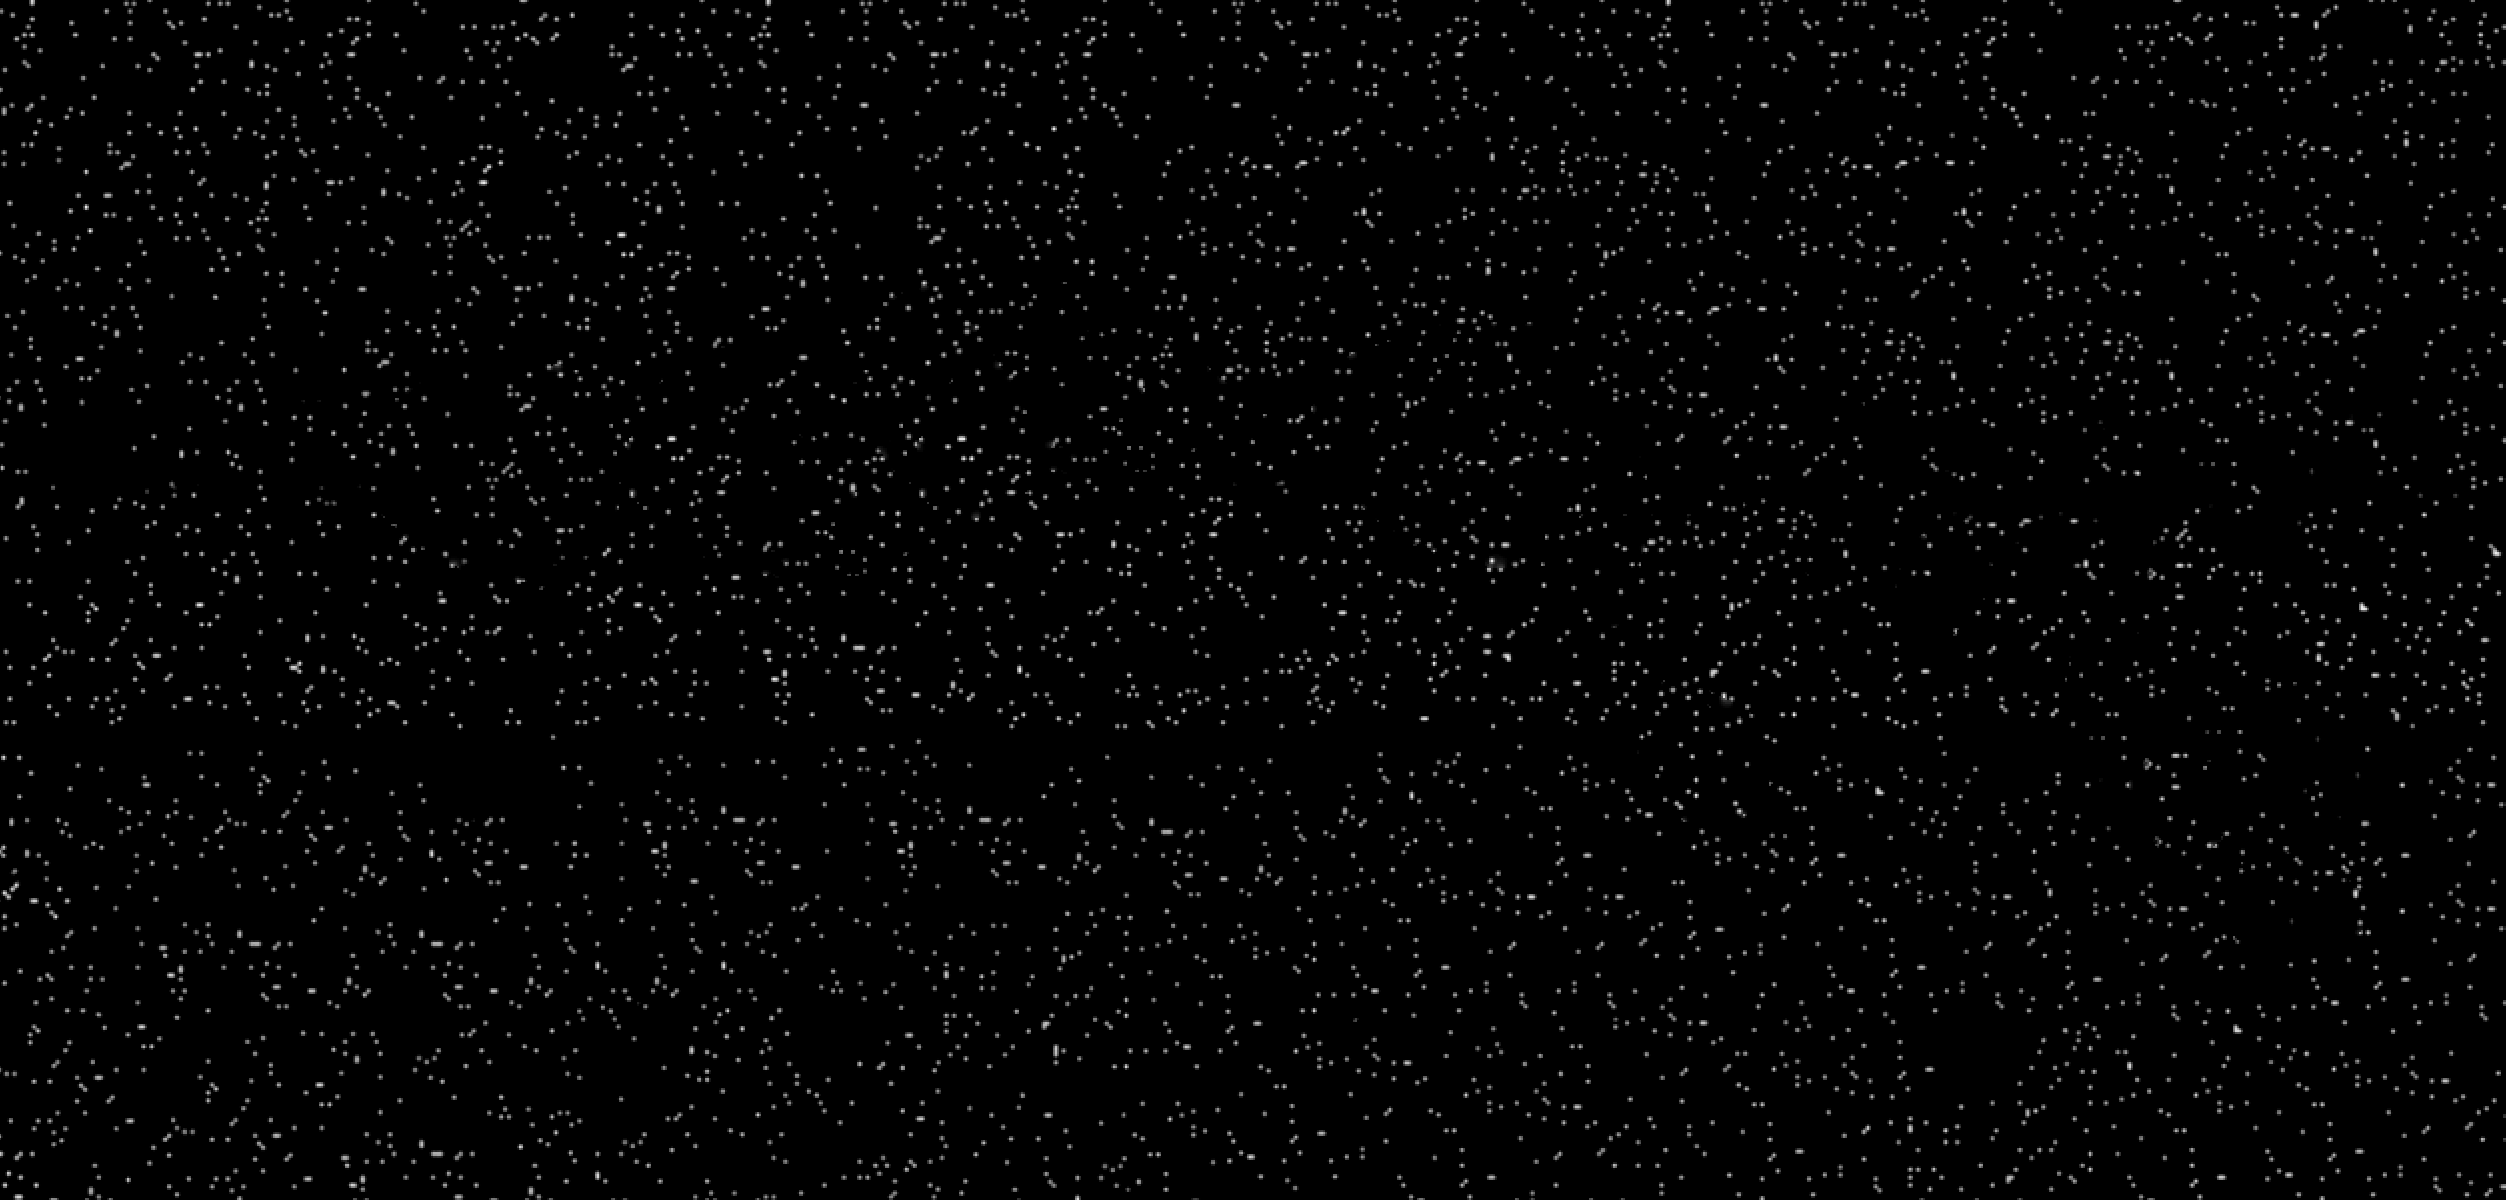
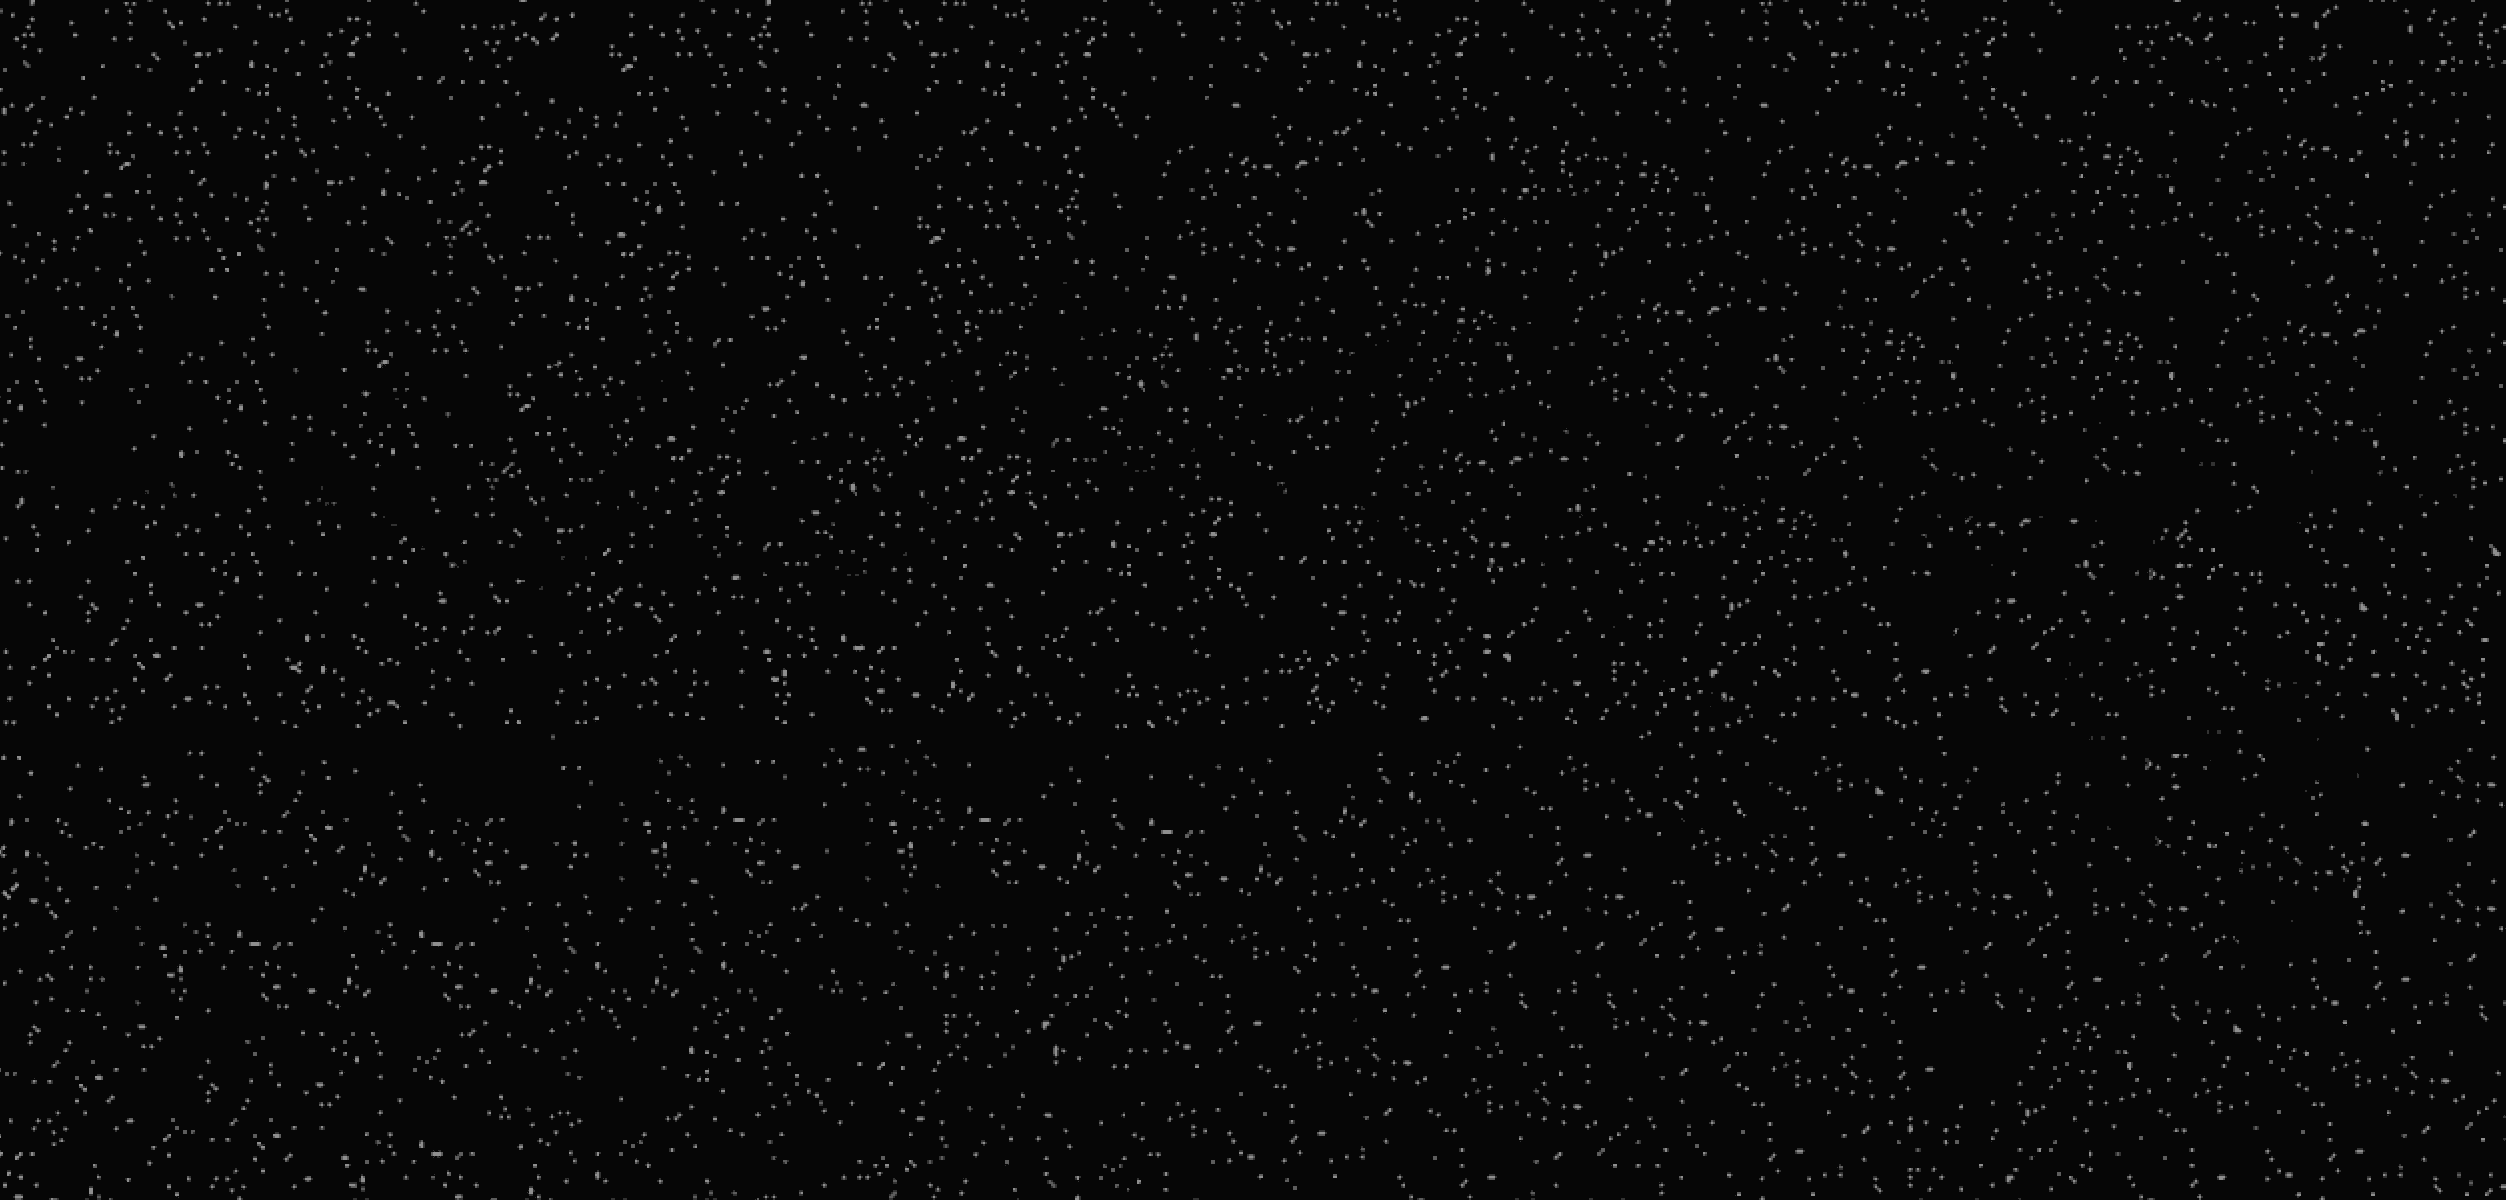
smaller visual and ux tweaks

diff --git a/src/App.css b/src/App.css
@@ -85,6 +85,12 @@ html,
   background-position: center;
 }
 
+@media (min-width: 2001px) {
+  .game-board {
+    transform: scale(0.75);
+  }
+}
+
 .side-column {
   display: flex;
   flex-wrap: wrap;
@@ -213,12 +219,50 @@ html,
   height: 2vw;
   width: 10vw;
   margin: 0 1vw;
+  font-size: 1.3vw;
+  padding-left: 0.5vw;
 }
 
-.starting-screen .starting-screen-player input[type="checkbox"]{
-  height: 2vw;
+.starting-screen .starting-screen-player input[type="text"]:disabled{
+  opacity: 0.5;
+}
+
+.starting-screen .starting-screen-player input[type="checkbox"] {
+  appearance: none;
+  -webkit-appearance: none;
+
   width: 2vw;
+  height: 2vw;
   margin: 0 1vw;
+
+  background: #222;
+  border: 0.15vw solid #888;
+  border-radius: 0.2vw;
+
+  cursor: pointer;
+  position: relative;
+}
+
+/* Checked állapot */
+.starting-screen .starting-screen-player input[type="checkbox"]:checked {
+  background: #fff;
+  border-color: #fff;
+}
+
+/* Pipa */
+.starting-screen .starting-screen-player input[type="checkbox"]:checked::after {
+  content: "";
+  position: absolute;
+
+  width: 0.5vw;
+  height: 1vw;
+
+  border-right: 0.2vw solid #111;
+  border-bottom: 0.2vw solid #111;
+
+  transform: rotate(45deg);
+    left: 0.55vw;
+    top: 0.15vw;
 }
 
 .puzzle-category {
@@ -240,6 +284,7 @@ html,
   margin-left: 0.35vw;
   vertical-align: middle;
   opacity: 0.6;
+  margin-top: -0.3vw;
 }
 
 .scoreboard {

diff --git a/src/components/StartingScreen.tsx b/src/components/StartingScreen.tsx
@@ -86,6 +86,7 @@ function StartingScreen({
             {index + 1}.
 
             <input
+              maxLength={15}
               type="text"
               value={player.name}
               disabled={player.computer}
